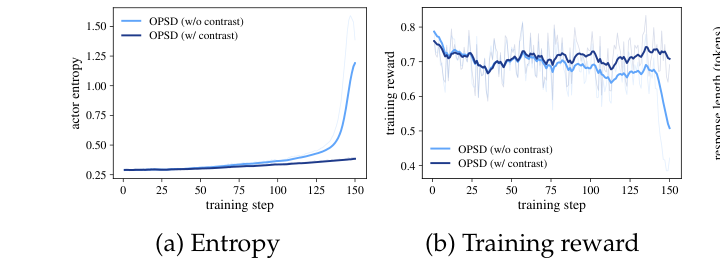
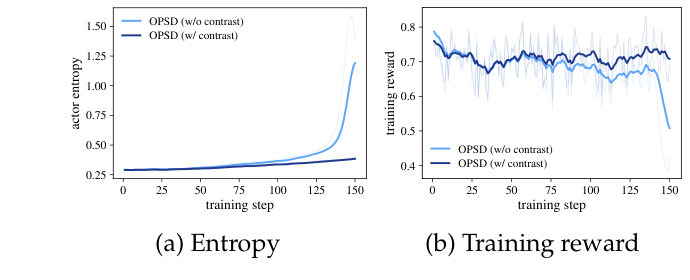
Clarify plug-in section and re-crop ECTR figures
- opsd_ectr_effect: trim right edge so no part of the RLSD plot leaks in.
- rlsd_ectr_effect: shift left edge so the "response length (tokens)" y-axis
  label is fully visible.
- Plug-in section: spell out the three hint sources (1)/(2)/(3), note that
  (1) and (2) are essentially equivalent, and define Δ as the gain of (3)
  over the better of (1) and (2) averaged across benchmarks.
- Clarify that the right panel of the rlsd_ectr_effect figure is actually
  an RLCSD ablation, not an RLSD variant.

diff --git a/README.md b/README.md
@@ -235,10 +235,21 @@ two representative methods from different families — OPSD (dense distillation)
 and RLSD (advantage modulation) — improves **every** method on nearly every
 metric.
 
-Concretely, for each method we vary only the source of the privileged signal:
-(1) **dataset CoT** (original setting), (2) **own correct rollout**, and
-(3) **own rollout + contrast** (the `*_ectr` variants in this repo). The third
-setting yields:
+Concretely, for each method we vary only the source of the privileged signal
+and hold everything else fixed:
+
+1. **Dataset CoT** — privileged context is the ground-truth solution from the
+   dataset (the original setting in each method's paper).
+2. **Own correct rollout** — privileged context is a correct rollout sampled
+   by the model itself from the same group.
+3. **Own rollout + contrast** — the contrastive construction (correct rollout
+   vs. incorrect sibling rollout). This is what `*_ectr` and `rlcsd` use.
+
+Settings (1) and (2) perform essentially the same across all three methods —
+switching the *source* of the one-sided hint barely matters. Setting (3) is
+the one that wins. Δ below is the **gain of (3) over the better of (1) and
+(2)**, averaged across benchmarks (Math = AMC23 + AIME24 + AIME25 mean@12,
+KK = 4–8 + 9 + 10 + 11 pass@1, Qwen3-4B):
 
 |  Method | Δ (Math avg) | Δ (KK avg) |
 |---------|-------------:|-----------:|
@@ -246,7 +257,7 @@ setting yields:
 | RLSD    | **+2.2**     | **+1.0**   |
 | RLCSD   | **+3.0**     | **+5.4**   |
 
-**`opsd_ectr` — OPSD with contrastive token-level signal.** Without contrast,
+**`opsd_ectr` — OPSD + contrastive token-level signal.** Without contrast,
 OPSD's actor entropy explodes in the late stage (the failure mode above);
 adding the contrastive hint keeps entropy bounded and yields a stable training
 reward.
@@ -255,12 +266,14 @@ reward.
   <img src="assets/opsd_ectr_effect.png" width="80%" alt="OPSD-ECTR mitigates entropy explosion"/>
 </p>
 
-**`rlsd_ectr` — RLSD with teacher–teacher contrastive evidence ratio.** The
-contrast also mitigates length collapse for both RLSD and RLCSD, preserving
-longer reasoning traces that benefit late-stage training.
+**`rlsd_ectr` — RLSD + contrastive evidence ratio.** The contrastive signal
+mitigates the length collapse seen in vanilla RLSD on math (left panel below).
+The right panel is an **RLCSD ablation**: removing the contrast from RLCSD
+reproduces the same length-collapse pathology, confirming that the contrastive
+construction is what keeps RLCSD's reasoning traces from shrinking.
 
 <p align="center">
-  <img src="assets/rlsd_ectr_effect.png" width="80%" alt="RLSD-ECTR preserves response length"/>
+  <img src="assets/rlsd_ectr_effect.png" width="80%" alt="Contrastive signal preserves response length for both RLSD (left) and RLCSD (right)"/>
 </p>
 
 These plug-in results are reported only on Qwen3-4B in the paper, and only